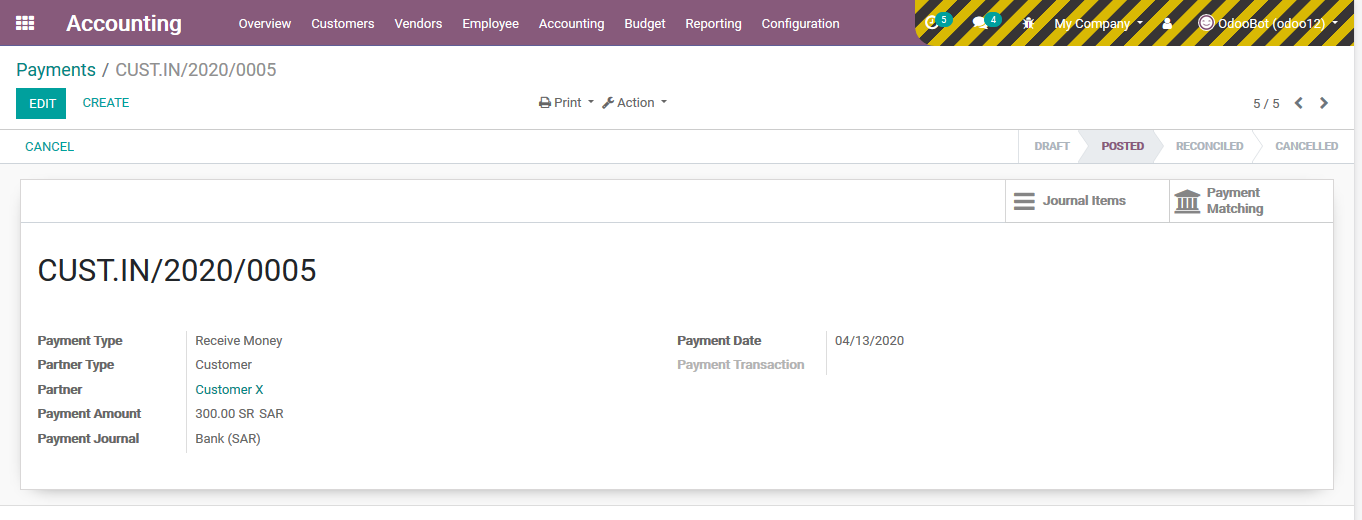
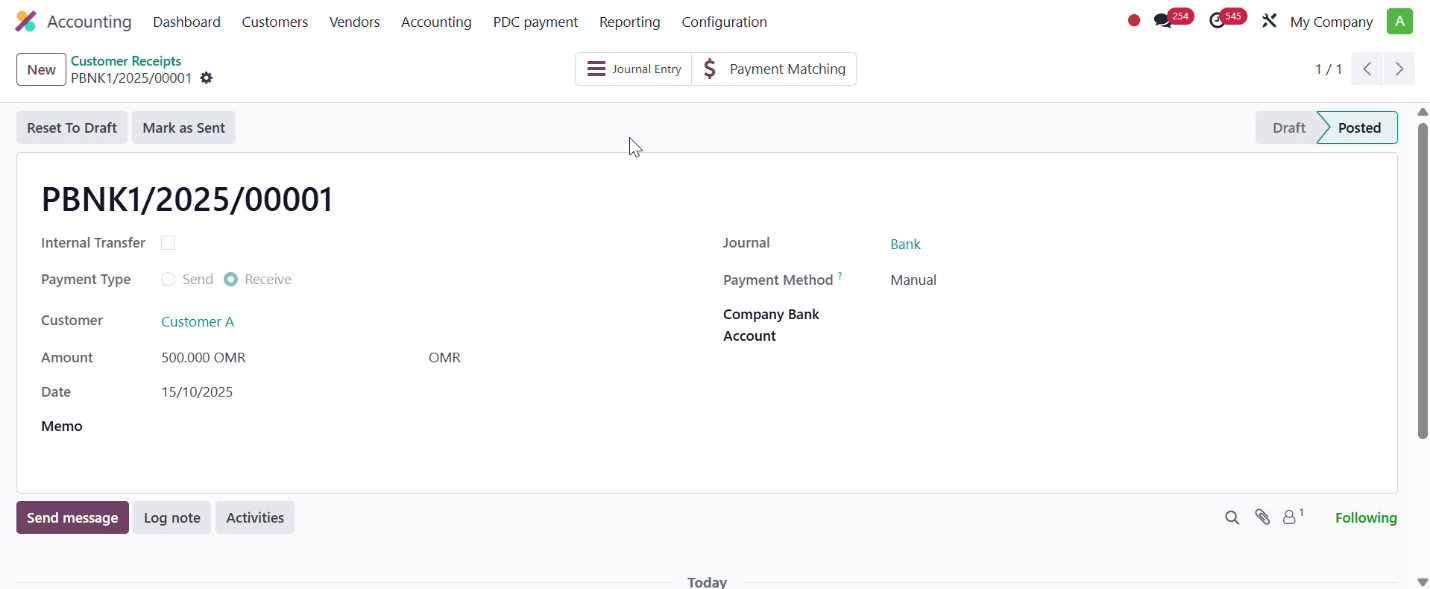
changes

diff --git a/payment_multi_allocation/static/description/index.html b/payment_multi_allocation/static/description/index.html
@@ -1,123 +1,125 @@
-<html><body><section class="oe_container">
+<html>
+<body>
+<section class="oe_container">
     <div class="oe_row oe_spaced">
         <h2 class="oe_slogan">Advance Payment Allocation</h2>
-     </div>
+    </div>
 </section>
 
 <section class="oe_container">
     <div class="oe_row oe_spaced">
-        <h2 class="oe_slogan" style="color:#882C76;">"Easy and Flexible Matching Between Payments and Invoices/Bills"</h2>
+        <h2 class="oe_slogan" style="color:#882C76;">"Easy and Flexible Matching Between Payments and
+            Invoices/Bills"</h2>
         <h3 class="oe_slogan">This module helps you to easily match Payments with Customer Invoices/Vendor Bills.</h3>
     </div>
 </section>
 
 
 <section class="oe_container">
-     <div class="oe_row oe_spaced">
-     	<div class="oe_row">
-     		<h3 style="color:#882C76;">Description</h3>
-     		<p style="line-height: 1.6;">Advance Payment Allocation is an essential and indispensable tool for any business. Odoo does not have a feature to allocate payments of Customer Invoices/Vendor Bills. This module allows to make advance payment from Customer Invoices/Vendor Bills and generate related journal entries. This feature allows to review all the invoices/bills of selected Customer/Vendor and make payment allocation amount against each invoice.</p>
-     	</div>
-	</div>
+    <div class="oe_row oe_spaced">
+        <div class="oe_row">
+            <h3 style="color:#882C76;">Description</h3>
+            <p style="line-height: 1.6;">Advance Payment Allocation is an essential and indispensable tool for any
+                business. Odoo does not have a feature to allocate payments of Customer Invoices/Vendor Bills. This
+                module allows to make advance payment from Customer Invoices/Vendor Bills and generate related journal
+                entries. This feature allows to review all the invoices/bills of selected Customer/Vendor and make
+                payment allocation amount against each invoice.</p>
+        </div>
+    </div>
 </section>
 
 <section class="oe_container">
-     <div class="oe_row oe_spaced">
-     	<div class="oe_row">
-     		<h3 style="color:#882C76;">Menus</h3>
-     		<ul style="margin-left: -10px;line-height: 1.6;">
-     			<li><p>Accounting</p><p></p></li>
-     			<ul style="margin-left: -20px;line-height: 1.6;">
-     				<li><p>Customers/Vendors</p></li>
-					<ul style="margin-left: 0px;line-height: 1.6;list-style-type: square;">
-						<li>Payments</li>										
-					</ul>
-					<ul style="margin-left: 15px;line-height: 1.6;list-style-type: none;">
-						<li>Action</li>										
-					</ul>
-					<ul style="margin-left: 30px;line-height: 1.6;list-style-type: none;">
-						<li>Payment Allocation</li>										
-					</ul>
-     			</ul>
-     			
-     		</ul>
-     	</div>
-	</div>
+    <div class="oe_row oe_spaced">
+        <div class="oe_row">
+            <h3 style="color:#882C76;">Menus</h3>
+            <ul style="margin-left: -10px;line-height: 1.6;">
+                <li><p>Accounting</p>
+                    <p></p></li>
+                <ul style="margin-left: -20px;line-height: 1.6;">
+                    <li><p>Customers/Vendors</p></li>
+                    <ul style="margin-left: 0px;line-height: 1.6;list-style-type: square;">
+                        <li>Payments</li>
+                    </ul>
+                    <ul style="margin-left: 15px;line-height: 1.6;list-style-type: none;">
+                        <li>Action</li>
+                    </ul>
+                    <ul style="margin-left: 30px;line-height: 1.6;list-style-type: none;">
+                        <li>Payment Allocation</li>
+                    </ul>
+                </ul>
+
+            </ul>
+        </div>
+    </div>
 </section>
 
 <section class="oe_container">
-     <div class="oe_row oe_spaced">
-     	<div class="oe_row">
-     		<h3 style="color:#882C76;">Reports</h3>
-     		<p style="line-height: 1.6;">Odoo standard module report.</p>
-     	</div>
-	</div>
+    <div class="oe_row oe_spaced">
+        <div class="oe_row">
+            <h3 style="color:#882C76;">Reports</h3>
+            <p style="line-height: 1.6;">Odoo standard module report.</p>
+        </div>
+    </div>
 </section>
 
 <section class="oe_container">
-     <div class="oe_row oe_spaced">
-     	<div class="oe_row">
-     		<h3 style="color:#882C76;">Key Features</h3>
-     		<ul style="margin-left: -10px;line-height: 1.6;">
-     			<li><p>Easy making of payment allocation amount against each invoice/bill.</p></li>
-     			<li><p>Easy creating and posting related journal entries.</p></li>
-   				<li><p>High flexibility in matching payments with Invoices/Bills.</p></li>
-   				<li><p>Ability to search, track and review payments by multiple dimensions.</p></li>
-   				<li><p>Fully integrated with other modules.</p></li>
-   				   				
-     		</ul>
-     	</div>
-	</div>
+    <div class="oe_row oe_spaced">
+        <div class="oe_row">
+            <h3 style="color:#882C76;">Key Features</h3>
+            <ul style="margin-left: -10px;line-height: 1.6;">
+                <li><p>Easy making of payment allocation amount against each invoice/bill.</p></li>
+                <li><p>Easy creating and posting related journal entries.</p></li>
+                <li><p>High flexibility in matching payments with Invoices/Bills.</p></li>
+                <li><p>Ability to search, track and review payments by multiple dimensions.</p></li>
+                <li><p>Fully integrated with other modules.</p></li>
+
+            </ul>
+        </div>
+    </div>
 </section>
 
 <section class="oe_container">
-     <div class="oe_row oe_spaced">
-     	<div class="oe_row">
-     		<h3 style="color:#882C76;">Demonstration</h3>
-     	</div>
-	</div>
+    <div class="oe_row oe_spaced">
+        <div class="oe_row">
+            <h3 style="color:#882C76;">Demonstration</h3>
+        </div>
+    </div>
 </section>
 
 <section class="oe_container">
-     <div class="oe_row oe_spaced">
-     	<div class="oe_row text-center">          
-	     	<h4 class="oe_slogan oe_spaced">[1] Create Payment</h4>	     	
+    <div class="oe_row oe_spaced">
+        <div class="oe_row text-center">
+            <h4 class="oe_slogan oe_spaced">Create Payment</h4>
         </div>
-        <div class="row text-center">  
-	        <div class="oe_row_img oe_centered">
-		       	<img src="screen_01.png" class="oe_screenshot" style="max-width:100%;">
-		    </div>
+        <div class="row text-center">
+            <div class="oe_row_img oe_centered">
+                <img src="screen_01.png" class="oe_screenshot" style="max-width:100%;">
+            </div>
         </div>
-     </div>
-	 
-	 <div class="oe_row oe_spaced">
-     	<div class="oe_row text-center">          
-	     	<h4 class="oe_slogan oe_spaced">[2] Allocate to invoices</h4>	     	
+    </div>
+
+    <div class="oe_row oe_spaced">
+        <div class="oe_row text-center">
+            <h4 class="oe_slogan oe_spaced">Allocate to invoices</h4>
         </div>
-        <div class="row text-center">  
-	        <div class="oe_row_img oe_centered">
-		       	<img src="screen_02.png" class="oe_screenshot" style="max-width:100%;">
-		    </div>
+        <div class="row text-center">
+            <div class="oe_row_img oe_centered">
+                <img src="screen_02.png" class="oe_screenshot" style="max-width:100%;">
+            </div>
         </div>
-     </div>
-	 
-	 <div class="oe_row oe_spaced">
-     	<div class="oe_row text-center">          
-	     	<h4 class="oe_slogan oe_spaced">Overview</h4>	     	
+    </div>
+
+    <div class="oe_row oe_spaced">
+        <div class="oe_row text-center">
+            <h4 class="oe_slogan oe_spaced">Overview</h4>
         </div>
-        <div class="row text-center">  
-	        <div class="oe_row_img oe_centered">
-		       	<img src="screen_03.gif" class="oe_screenshot" style="max-width:100%;">
-		    </div>
-			<div class="oe_row_img oe_centered">
-		       	<img src="screen_04.gif" class="oe_screenshot" style="max-width:100%;">
-		    </div>
+        <div class="row text-center">
+            <div class="oe_row_img oe_centered">
+                <img src="screen_03.gif" class="oe_screenshot" style="max-width:100%;">
+            </div>
         </div>
-     </div>
-	 
-	 
-	      
-          
+    </div>
+
 </section>
 
 <section class="oe_container">
@@ -125,18 +127,23 @@
         <h2 class="oe_slogan">Need Any Help?</h2>
     </div>
     <div class="oe_slogan">
-        <a class="btn btn-primary btn-md mt8" style="color: #FFFFFF !important;" href="mailto:odoo@open-inside.com" target="_blank">
-        	<i class="fa fa-envelope"></i>
-         	Email 
+        <a class="btn btn-primary btn-md mt8" style="color: #FFFFFF !important;" href="mailto:fawadh817@gmail.com"
+           target="_blank">
+            <i class="fa fa-envelope"></i>
+            Email
         </a>
-        <a class="btn btn-primary btn-md mt8" style="color: #FFFFFF !important;" href="https://www.open-inside.com/page/contactus" target="_blank">
-	        <i class="fa fa-phone"></i> 
-	        Contact Us 
+        <a class="btn btn-primary btn-md mt8" style="color: #FFFFFF !important;"
+           href="https://apps.odoo.com/apps/modules/17.0/payment_multi_allocation" target="_blank">
+            <i class="fa fa-phone"></i>
+            Contact Us : +92 301 0400 131
         </a>
-        <a class="btn btn-primary btn-md mt8" style="color: #FFFFFF !important;" href="https://www.open-inside.com/openinside/products/" target="_blank">
-	        <i class="fa fa-suitcase"></i>
-	        Our Products 
+        <a class="btn btn-primary btn-md mt8" style="color: #FFFFFF !important;"
+           href="https://apps.odoo.com/apps/modules/browse?search=Fawad" target="_blank">
+            <i class="fa fa-suitcase"></i>
+            Our Products
         </a>
-        
+
     </div>
-</section></body></html>
+</section>
+</body>
+</html>
